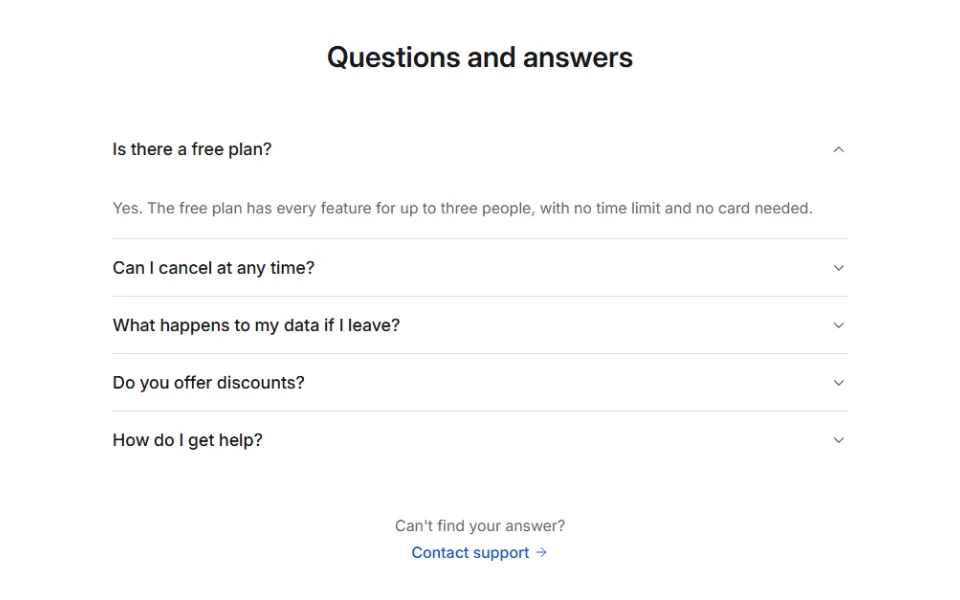
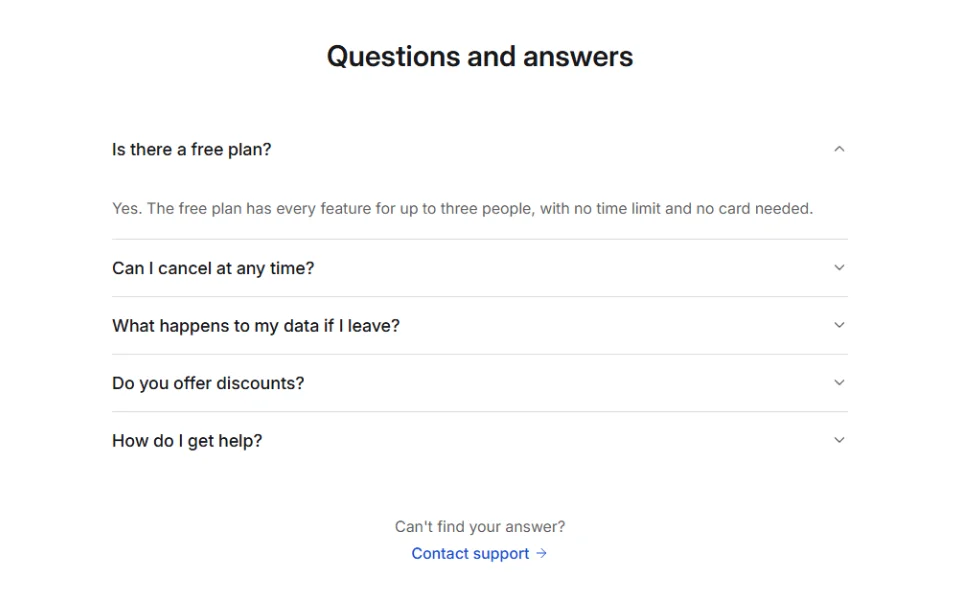
SectionHeader, and the blocks' intros on it
The intro of a landing page's section: Eyebrow, Title (h2 by default, TitleId for the section's
aria-labelledby), Description, Align per breakpoint (centered by default), Size Sm/Md/Lg at the
blocks' fluid sizes. Surveyed Nov 14 (artifacts/surveys/section-header-2026-11-14.md): no
library has one; kits compose eyebrow, h2 and a paragraph. Features, FAQ, Team and Articles use
it; their previews and pictures are unchanged.

diff --git a/src/IzzyBlazor.Core/Styles/components/layout.css b/src/IzzyBlazor.Core/Styles/components/layout.css
@@ -104,6 +104,37 @@
     gap: var(--ib-space-2);
   }
 
+  /* SectionHeader: a column whose lines keep to a readable width, centered or at the start by
+     the ib-align and ib-ta utilities; sizes come in as --ib-sh-title and --ib-sh-text. */
+  .ib-section-header {
+    display: flex;
+    flex-direction: column;
+    gap: var(--ib-space-3);
+    min-width: 0;
+  }
+
+  .ib-section-header > * { max-width: 40rem; margin: 0; }
+
+  .ib-section-header-eyebrow {
+    color: var(--ib-color-primary-text);
+    font-size: var(--ib-text-sm);
+    font-weight: var(--ib-weight-semibold);
+  }
+
+  .ib-section-header-title {
+    font-family: var(--ib-font-heading);
+    font-size: var(--ib-sh-title);
+    font-weight: var(--ib-weight-heading, var(--ib-weight-semibold));
+    line-height: var(--ib-leading-tight);
+    text-wrap: balance;
+  }
+
+  .ib-section-header-description {
+    color: var(--ib-color-muted);
+    font-size: var(--ib-sh-text);
+    text-wrap: pretty;
+  }
+
   .ib-center {
     display: flex;
     align-items: center;

diff --git a/src/IzzyBlazor.Core/Components/Layout/SectionHeader.cs b/src/IzzyBlazor.Core/Components/Layout/SectionHeader.cs
@@ -1,0 +1,113 @@
+using Microsoft.AspNetCore.Components;
+using Microsoft.AspNetCore.Components.Rendering;
+
+namespace IzzyBlazor;
+
+/// <summary>
+/// The top of a section of a landing or marketing page: an optional eyebrow, a heading and a
+/// sentence under it, centered over the section's content by default. For the top of an app
+/// page, with actions at the end, use <see cref="PageHeader"/>.
+/// </summary>
+/// <example>
+/// <code>
+/// &lt;SectionHeader Title="Everything you need" Description="The parts every app needs." /&gt;
+/// </code>
+/// </example>
+/// <accessibility>
+/// <list type="bullet">
+/// <item><see cref="Title"/> is a heading, an <c>h2</c> by default, so the page's outline goes h1, then a heading per section.</item>
+/// <item>Give the section a name with <c>aria-labelledby</c> pointing at <see cref="TitleId"/>.</item>
+/// <item>The eyebrow is a paragraph before the heading, read before it.</item>
+/// </list>
+/// </accessibility>
+/// <seealso cref="Section"/>
+/// <seealso cref="PageHeader"/>
+/// <seealso cref="Heading"/>
+[ModeSupport]
+public class SectionHeader : StyledComponentBase
+{
+    /// <summary>The heading, such as "Everything you need to run your work".</summary>
+    [Parameter, EditorRequired] public string Title { get; set; } = "";
+
+    /// <summary>The heading level of <see cref="Title"/>, 1 to 6. Defaults to 2, a section under the page's h1.</summary>
+    [Parameter] public int TitleLevel { get; set; } = 2;
+
+    /// <summary>The heading's <c>id</c>, for the section's <c>aria-labelledby</c>.</summary>
+    [Parameter] public string? TitleId { get; set; }
+
+    /// <summary>A muted sentence under the heading: what the section is about.</summary>
+    [Parameter] public string? Description { get; set; }
+
+    /// <summary>A short line above the heading in the accent color, such as "Pricing".</summary>
+    [Parameter] public string? Eyebrow { get; set; }
+
+    /// <summary>
+    /// Where the text sits, per breakpoint. Defaults to <see cref="TextAlign.Center"/>. Over
+    /// content that starts at the edge on phones, such as a list of features, use
+    /// <c>new() { Base = TextAlign.Start, Md = TextAlign.Center }</c>.
+    /// </summary>
+    [Parameter] public Responsive<TextAlign> Align { get; set; } = TextAlign.Center;
+
+    /// <summary>
+    /// The heading and sentence size: <see cref="ControlSize.Sm"/> (20px and 16px) for a section
+    /// in a card, <see cref="ControlSize.Md"/> (36px and 18px, 28px and 16px on phones; the
+    /// default), <see cref="ControlSize.Lg"/> (48px, 36px on phones) for a page made of one section.
+    /// </summary>
+    [Parameter] public ControlSize Size { get; set; } = ControlSize.Md;
+
+    /// <summary>Anything under the sentence, such as a link or buttons.</summary>
+    [Parameter] public RenderFragment? ChildContent { get; set; }
+
+    /// <inheritdoc />
+    protected override void BuildAttributes(ClassBuilder classes, StyleBuilder styles)
+    {
+        classes.Add("ib-section-header");
+        var (title, text) = Size switch
+        {
+            ControlSize.Sm => (StyleValues.TextSize(TextSize.Xl), StyleValues.TextSize(TextSize.Md)),
+            ControlSize.Lg => (StyleValues.FluidTextSize(TextSize.Xl3, TextSize.Xl5), StyleValues.FluidTextSize(TextSize.Md, TextSize.Lg)),
+            _ => (StyleValues.FluidTextSize(TextSize.Xl2, TextSize.Xl3), StyleValues.FluidTextSize(TextSize.Md, TextSize.Lg)),
+        };
+        styles.AddVar("sh-title", title);
+        styles.AddVar("sh-text", text);
+        ApplyResponsive(classes, styles, Align, "ib-ta", "ta", StyleValues.TextAlign);
+        ApplyResponsive(classes, styles, Align.Select<Align>(a => a switch
+        {
+            TextAlign.Center => IzzyBlazor.Align.Center,
+            TextAlign.End => IzzyBlazor.Align.End,
+            _ => IzzyBlazor.Align.Start,
+        }), "ib-align", "align", StyleValues.Align);
+        base.BuildAttributes(classes, styles);
+    }
+
+    /// <inheritdoc />
+    protected override void BuildRenderTree(RenderTreeBuilder builder)
+    {
+        var (cssClass, style) = BuildRootAttributes();
+        builder.OpenElement(0, "div");
+        builder.AddMultipleAttributes(1, AdditionalAttributes);
+        builder.AddAttribute(2, "class", cssClass);
+        builder.AddAttribute(3, "style", style);
+        if (!string.IsNullOrEmpty(Eyebrow))
+        {
+            builder.OpenElement(4, "p");
+            builder.AddAttribute(5, "class", "ib-section-header-eyebrow");
+            builder.AddContent(6, Eyebrow);
+            builder.CloseElement();
+        }
+        builder.OpenElement(7, $"h{Math.Clamp(TitleLevel, 1, 6)}");
+        builder.AddAttribute(8, "class", "ib-section-header-title");
+        builder.AddAttribute(9, "id", TitleId);
+        builder.AddContent(10, Title);
+        builder.CloseElement();
+        if (!string.IsNullOrEmpty(Description))
+        {
+            builder.OpenElement(11, "p");
+            builder.AddAttribute(12, "class", "ib-section-header-description");
+            builder.AddContent(13, Description);
+            builder.CloseElement();
+        }
+        builder.AddContent(14, ChildContent);
+        builder.CloseElement();
+    }
+}

diff --git a/site/IzzyBlazor.Site/Services/Pictures.cs b/site/IzzyBlazor.Site/Services/Pictures.cs
@@ -122,6 +122,7 @@ public static class Pictures
         ["progress-circle"] = """<circle class="d0 w3" cx="80" cy="48" r="26"/><path class="es w3" fill="none" d="M80 22A26 26 0 1 1 55.3 56"/><text class="pg-label p" x="80" y="52.5" text-anchor="middle" style="font-size:13px">70%</text>""",
         ["progress"] = """<rect class="p" x="28" y="32" width="40" height="3" rx="1.5"/><rect class="t" x="114" y="32" width="18" height="3" rx="1.5"/><rect class="m" x="28" y="46" width="104" height="8" rx="4"/><rect class="e" x="28" y="46" width="70" height="8" rx="4"/>""",
         ["skeleton"] = """<circle class="m" cx="46" cy="48" r="14"/><rect class="m" x="70" y="38" width="60" height="8" rx="4"/><rect class="m" x="70" y="52" width="40" height="8" rx="4"/><rect class="hs" x="64" y="32" width="26" height="32" rx="4"/>""",
+        ["section-header"] = """<rect class="e" x="66" y="22" width="28" height="3" rx="1.5"/><rect class="p" x="40" y="34" width="80" height="7" rx="3.5"/><rect class="t" x="34" y="51" width="92" height="3" rx="1.5"/><rect class="t" x="48" y="60" width="64" height="3" rx="1.5"/>""",
         ["page-header"] = """<rect class="p" x="28" y="32" width="58" height="7" rx="3.5"/><rect class="t" x="28" y="47" width="74" height="3" rx="1.5"/><rect class="e" x="108" y="30" width="26" height="12" rx="5"/><path class="d" fill="none" d="M28 66H134"/>""",
         ["empty-state"] = """<rect class="dash d" x="30" y="12" width="100" height="72" rx="12"/><circle class="s" fill="none" cx="80" cy="38" r="14"/><rect class="e" x="64" y="62" width="32" height="12" rx="5"/>""",
         ["table"] = """<rect class="f s" x="28" y="18" width="104" height="60" rx="8"/><path class="d" fill="none" d="M28 36H132M28 60H132"/><rect class="hs" x="29" y="37" width="102" height="22"/><path class="es w3" fill="none" d="M29 37V59"/><rect class="p" x="40" y="25.5" width="30" height="3" rx="1.5"/><rect class="p" x="40" y="46.5" width="50" height="3" rx="1.5"/><rect class="t" x="40" y="67.5" width="40" height="3" rx="1.5"/>""",
